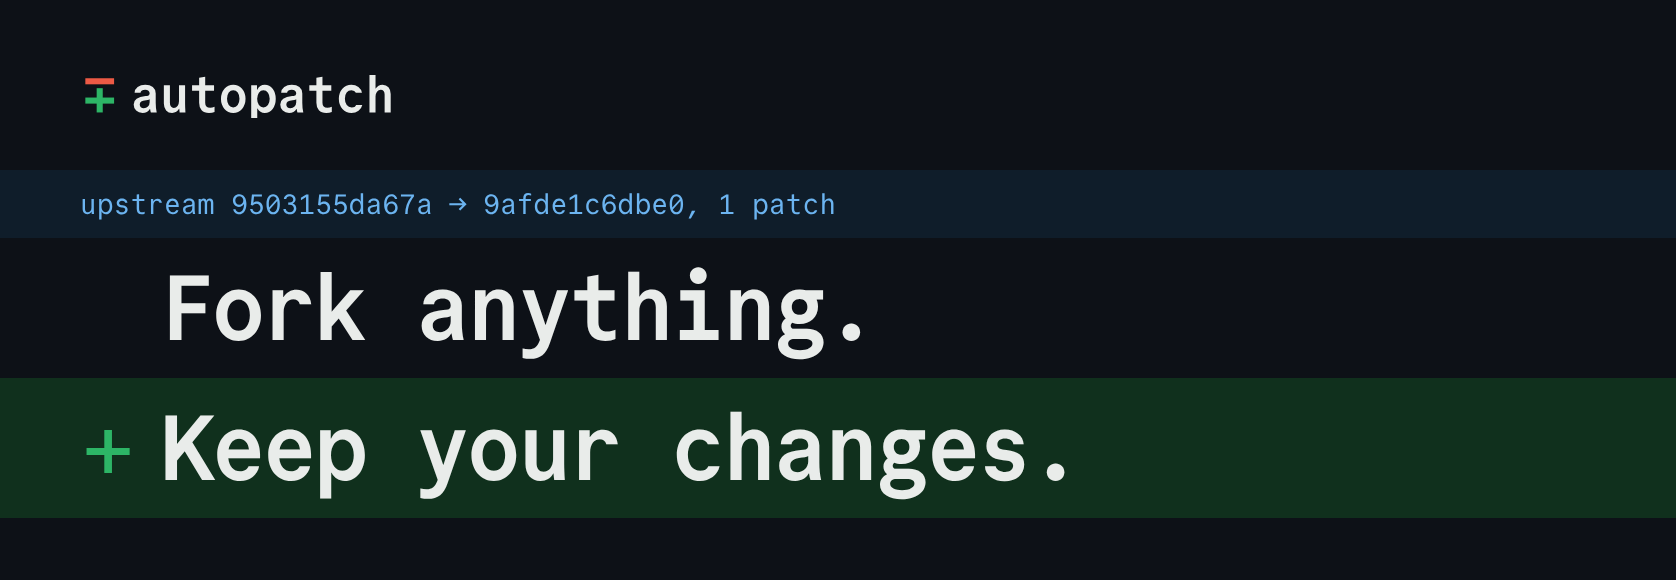
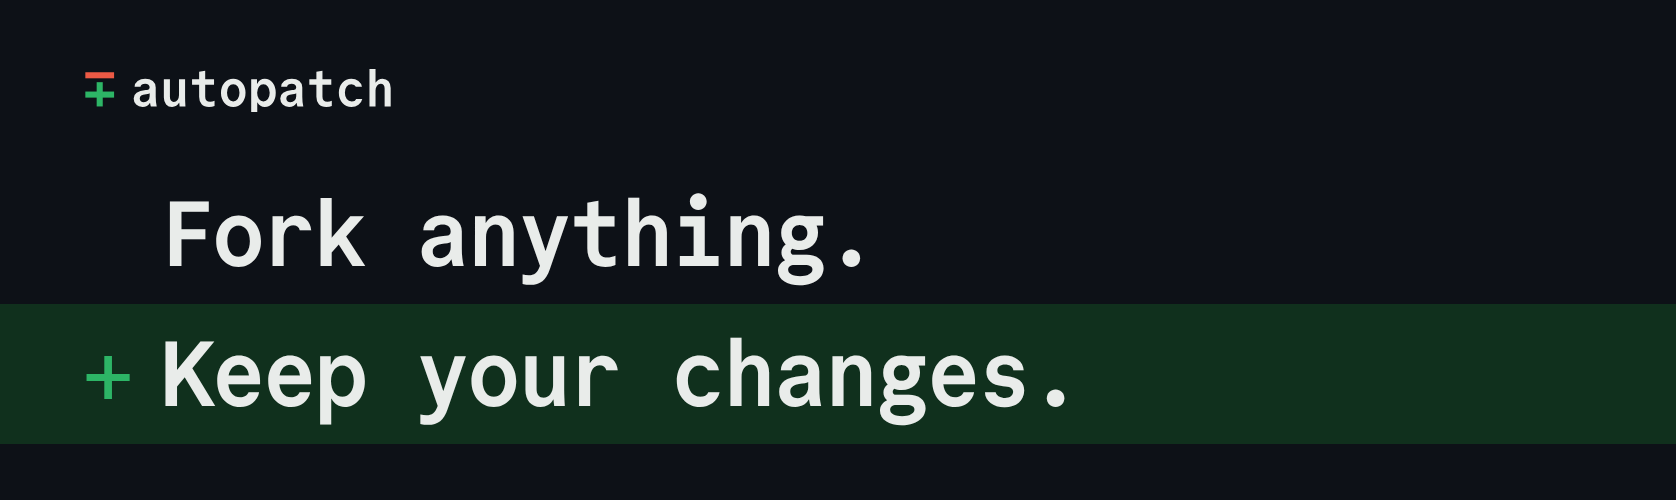
Site: finished-product pass: fork in one command, patches as folders, made for agents, your schedule, no hero band; OG and README headers to match

Changed region(s): [[0.0, 0.33, 1.0, 0.9], [0.031, 0.12, 0.2482, 0.24]]

diff --git a/brand/readme/header.css b/brand/readme/header.css
@@ -1,12 +1,11 @@
 @font-face { font-family: "Commit Mono"; src: url("../fonts/commit-mono-400.woff2") format("woff2"); font-weight: 400; }
 @font-face { font-family: "Commit Mono"; src: url("../fonts/commit-mono-700.woff2") format("woff2"); font-weight: 700; }
-:root { --bg: #ffffff; --ink: #101312; --sign-del: #d7402c; --sign-add: #1c9a50; --add-bg: #e1f5e7; --hunk: #1d64a8; --hunk-bg: #e5f0fa; }
-.dark { --bg: #0d1117; --ink: #e9ecea; --sign-add: #2db566; --add-bg: #10301d; --hunk: #6cb4f0; --hunk-bg: #0f1d2a; }
+:root { --bg: #ffffff; --ink: #101312; --sign-del: #d7402c; --sign-add: #1c9a50; --add-bg: #e1f5e7; }
+.dark { --bg: #0d1117; --ink: #e9ecea; --sign-add: #2db566; --add-bg: #10301d; }
 html, body { margin: 0; }
 body { width: 100vw; height: 100vh; background: var(--bg); align-items: flex-start; color: var(--ink); font-family: "Commit Mono", monospace; font-variant-ligatures: none; overflow: hidden; display: flex; flex-direction: column; justify-content: center; }
 .wm { height: 28px; margin: 0 0 26px 40px; display: block; }
 .ln { align-self: stretch; display: grid; grid-template-columns: 26px 1fr; column-gap: 14px; padding: 0 40px; white-space: nowrap; }
-.hunk { background: var(--hunk-bg); color: var(--hunk); font-size: 14px; line-height: 34px; grid-template-columns: 1fr; }
 .big { font-size: 46px; font-weight: 700; letter-spacing: -0.045em; line-height: 70px; }
 .big::before { font-weight: 400; text-align: center; content: " "; }
 .add { background: var(--add-bg); } .add::before { content: "+"; color: var(--sign-add); }

diff --git a/brand/readme/header-dark.html b/brand/readme/header-dark.html
@@ -4,7 +4,6 @@
 <link rel="stylesheet" href="header.css">
 <body>
 <img class="wm" src="../logo/autopatch-dark.svg" alt="">
-<div class="ln hunk">upstream 9503155da67a → 9afde1c6dbe0, 1 patch</div>
 <div class="ln big">Fork anything.</div>
 <div class="ln big add">Keep your changes.</div>
 </body>

diff --git a/brand/readme/header-light.html b/brand/readme/header-light.html
@@ -4,7 +4,6 @@
 <link rel="stylesheet" href="header.css">
 <body>
 <img class="wm" src="../logo/autopatch.svg" alt="">
-<div class="ln hunk">upstream 9503155da67a → 9afde1c6dbe0, 1 patch</div>
 <div class="ln big">Fork anything.</div>
 <div class="ln big add">Keep your changes.</div>
 </body>

diff --git a/brand/copy/MESSAGING.md b/brand/copy/MESSAGING.md
@@ -1,103 +1,64 @@
 # autopatch messaging
 
-The source of truth for how we talk about autopatch. The site, README, OG image and launch post draw from here. Numbers come from `copy/facts.json` (run `node copy/facts.mjs`), never typed by hand. When this file and an asset disagree, fix it here first, then `rg` every asset for the old wording.
-
-Every claim below was checked against `~/Developer/autopatch` (`src/autopatch.ts`, `action.yml`, `action.sh`, `README.md`) on Oct 10 2026, and the patch model (plain-prose PATCH.md, `add <id> "text"`) on Oct 11. The README's first line and this hero's sub line say the same thing; keep them in step.
+The source of truth for how the site, OG image and launch post talk about autopatch. The README in `~/Developer/autopatch` is the source for what the tool does; when they disagree, the README wins and this file follows. Numbers come from `copy/facts.json` (`node copy/facts.mjs`), never typed by hand.
 
 ## The idea in one sentence
 
-autopatch keeps your changes on top of someone else's repo: every night your fork is rebuilt from upstream plus your patches, and when one stops applying, an agent re-implements it from the intent you wrote down.
+autopatch keeps your fork on top of upstream, and when upstream breaks one of your changes, an agent rebuilds it.
 
-Bassim's own words, for the README and the launch, verbatim: "i can fork and customize anything, the agents will autonomously track upstream and re-implement my changes."
+Bassim's own words, for the launch, verbatim: "i can fork and customize anything, the agents will autonomously track upstream and re-implement my changes."
 
 ## Hero
 
-- **Headline:** Fork anything. Keep your changes.
-- **Sub line:** A GitHub Action that updates your fork every night, and has an agent redo any change that stops applying. *(19 words)*
-- **Band above it:** your fork, every night *(no SHAs: plain words read as a product, not a log)*
-- **Command under it:** `npx github:AVGVSTVS96/autopatch init owner/repo`
+- **Headline:** Fork anything. / Keep your changes. (two diff rows, mono, no band above them)
+- **Sub line:** autopatch keeps your fork on top of upstream. When upstream breaks one of your changes, an agent rebuilds it.
+- **Command:** `npx github:AVGVSTVS96/autopatch fork owner/repo`
+- **Under it:** the real T3 Code heal as a product view: its PATCH.md beside the run (383 commits pulled in, window-title no longer applied, Claude Code rebuilt it, typecheck passed, signed commit, 1m 55s).
 
 ## Sections
 
-Oct 11 rework, from Bassim: "the copy's quite heavy... makes this look so complicated", "a little too techy feeling... like hacker feeling. i want it to feel more like a finished product", "show just how easy it is to set up autopatch and fork a repo", and explain the commands: "What is adding a patch exactly? ... When do you do that exactly? ... How do you create patches exactly? Like files?" The PATCH.md site's hand-written copy (`~/Developer/PATCH.md/apps/website/src/spec.mdx`) sets the tone: say what the thing is, plainly, then show it.
+Oct 12, Bassim: "the page still has that kind of bare-bones skeleton kind of feel... I wanted to feel more like a complete finished product", "like other projects you go there, you kind of get it and you're impressed", "agents are going to be using this. We're not expecting human beings to use the CLI", "the every night wording that you put in everywhere as if every repo has nightly releases", and on the timeline: "don't make it sound cringe".
 
-One headline, at most one short line, one visual each. No terminal logs, SHAs or YAML on the page; those live in the README and the linked run.
+One headline, one short line, one visual each.
 
-### 1. Set it up once
-
-Three steps: fork it; run `init` (adds the nightly workflow, `--verify` takes the test command); `claude setup-token` and save it as `CLAUDE_CODE_OAUTH_TOKEN`, push. "That's it."
-
-### 2. Change anything. Say why.
-
-**Line:** Edit the code however you like, by hand or with your agent. Then `add` turns it into a patch.
-
-**Visual:** the `add` command with its sentence, then what it writes: PATCH.md holding exactly that sentence, the folder, and the real `window-title.patch` diff from the T3 Code fork. Two asides: same id folds more in; words only makes an intent-only patch the agent builds on the next sync.
-
-### 3. Every night, it rebuilds your fork
-
-**Visual:** five diff rows in sans: upstream's newest green commit (context), your patches applied with git (+), any that no longer fit redone by an agent from their PATCH.md (+), any upstream now does itself dropped (-), your tests then a signed commit (context). Beside it, the real T3 Code run as a result card: 383 upstream commits behind, 1 patch redone by Claude Code, typecheck passed, signed and pushed, 1m 55s.
-
-**Under it:** No agent runs when every patch fits. If anything fails, nothing is pushed.
-
-### 4. Four commands
-
-`init`, `add`, `status`, `sync`, one plain line each. Note: run with `npx github:AVGVSTVS96/autopatch`; Claude Code by default, `agent` in config.json for Codex or any CLI agent.
-
-### 5. How it got here
-
-A dated timeline, in Bassim's order: pi-patcher (May 22, proof of concept), PATCH.md (Jun 27, the format), herdr (Jul 24, the first fork kept this way, also a proof of concept; {forks.2.upstreamCommitsAbsorbed} upstream commits), Claude Code plugins (Oct 4, "the one I rely on most"), Buzz (Oct 5), T3 Code (Oct 6, the first fork on autopatch), autopatch (Oct 10).
+1. **One command.** `fork` forks, clones and adds the workflow (and the secret, if `CLAUDE_CODE_OAUTH_TOKEN` is set). `init owner/repo` for a fork you already have.
+2. **A patch is a folder.** PATCH.md says what the change does, the diff sits beside it. Changed the code: write the PATCH.md, `save <id>`. Only an idea: push the PATCH.md and the next heal builds it.
+3. **Made for your agent.** `npx skills add AVGVSTVS96/autopatch`, then an example session: fork, edit, write PATCH.md, save, push.
+4. **On your schedule.** Update every 6 hours, git only. Heal daily, the agent. Follow a branch or `releases`. Both cron lines are yours to change.
+5. **Commands.** `fork`, `init`, `save`, `status`, `sync`, one line each, as in the README.
+6. **History.** The README's list, as is: pi-patcher (May, proof of concept), PATCH.md (June, the format), herdr (July, the first fork rebuilt from patches, proof of concept), forks of Claude Code's plugins, Buzz and T3 Code (October, in daily use), autopatch (October). Facts, no ranking of which fork he likes.
 
 ## Meta
 
 - **Title:** autopatch: fork anything, keep your changes
-- **Description:** A GitHub Action that updates your fork every night, and has an agent redo any change that stops applying.
+- **Description:** autopatch keeps your fork on top of upstream. When upstream breaks one of your changes, an agent rebuilds it.
 - **Site:** https://autopatchmd.vercel.app
-- **Repo description (GitHub):** Fork anything and keep your changes. An agent re-implements the ones that stop applying.
+- **Repo description (GitHub):** Fork anything and keep your changes. When upstream breaks one, an agent rebuilds it.
 
 ## OG image (1200×630)
 
-- **Big:** Fork anything. Keep your changes.
+- **Big:** Fork anything. / Keep your changes.
 - **Small:** autopatch · autopatchmd.vercel.app
-- **Alt text:** autopatch: fork anything, keep your changes. Patches replay on upstream every night, and an agent re-implements the ones that stop applying.
+- **Alt text:** autopatch: Fork anything. Keep your changes.
 
 Nothing else on it. Keep the bottom fifth clear for X's title bar.
 
-## What it is
-
-- A CLI and a GitHub Action, in one file of TypeScript ({tool.sourceLines} lines, {tool.runtimeDependencies} runtime dependencies, MIT).
-- Your patches as plain files in your fork: `.autopatch/<id>/PATCH.md` and `<id>.patch`, in order, listed in `.autopatch/config.json`.
-- Commands: `init`, `add`, `status`, `sync`.
-- Your fork's own `.github/` replaces upstream's on every rebuild, so upstream's workflows never run with your secrets.
-
 ## What it isn't
 
-- **Not a rebase bot.** It rebuilds your fork from upstream each time: upstream, then each patch in order. Patches stack, and a later one can touch the same files as an earlier one.
-- **Not hands-off forever.** If the agent can't make the change pass your verify command, nothing lands and the run fails, so you see it. Don't say "maintains itself", "zero maintenance" or "never breaks".
-- **Not a model call every night.** When every patch applies, there's no agent at all. A sync that failed isn't retried on the same upstream commit with the same patches, so a stuck heal can't burn your quota.
-- **Not a skill, a plugin or a mod.** It's a tool that runs in your fork's CI.
+- **Not nightly.** It runs on two schedules the user picks (defaults: update every 6 hours, heal daily) and can follow releases. Never say "every night".
+- **Not a rebase bot.** It rebuilds the fork from upstream plus the patches each time.
+- **Not hands-off forever.** If the agent can't make the change pass `verify`, nothing lands and the run fails. Don't say "maintains itself", "zero maintenance" or "never breaks".
+- **Not a model call on every run.** Updates are git only; the agent runs only to heal.
 
 ## Voice
 
-Plain words, like the README. Short sentences, real numbers, what works and what doesn't.
+Plain words, like the README. Short sentences, real numbers.
 
-**Do**
-- Use the real names: `PATCH.md`, `.autopatch/`, `verify`, `autopatch sync`, upstream, fork, patch, heal.
-- Say what happened: "git applied 3 of 4, the agent rewrote 1, verify passed."
+- Use the real names: `PATCH.md`, `.autopatch/`, `verify`, `fork`, `save`, upstream, patch, heal.
 - Lowercase in the launch post and anywhere Bassim speaks. Sentence case on the site.
-
-**Don't**
 - No: self-maintaining, autonomous fork, zero maintenance, forever, AI-powered, magic, seamless, effortless, supercharge, unlock.
-- Don't call patches "mods". Don't call autopatch a skill.
-- No em dashes. Reword the sentence.
-- No setup-and-punchline lines on the site. The launch post can have one hook; the page can't.
-
-| Don't | Do |
-|---|---|
-| Your fork maintains itself. | Your patches replay on upstream every night. |
-| AI-powered conflict resolution. | When a patch stops applying, an agent rewrites it from its intent. |
-| Never rebase again. | Git applies what it can. The agent handles the rest, and your tests check it. |
-| Fork anything, forever. | Fork anything. Keep your changes. |
+- No em dashes. No setup-and-punchline lines on the site.
 
 ## Name
 
-autopatch, one word, always lowercase, even at the start of a sentence. Never "AutoPatch", "Autopatch" or "auto-patch" (Bassim says "auto patch" out loud; it's still one word written). PATCH.md keeps its casing: it's a file name.
+autopatch, one word, always lowercase, even at the start of a sentence. PATCH.md keeps its casing: it's a file name.

diff --git a/brand/BRAND.md b/brand/BRAND.md
@@ -1,6 +1,6 @@
 # autopatch · brand
 
-**The idea in a sentence:** the page is a diff. autopatch's whole job is to keep one `+` alive on top of someone else's code, so the brand is built from the unified diff itself: the `@@` hunk band, the red `-` row, the green `+` row, set big.
+**The idea in a sentence:** the page is a diff. autopatch's whole job is to keep one `+` alive on top of someone else's code, so the brand is built from the unified diff itself: the red `-` row and the green `+` row, set big.
 
 ## Why this direction (picked without a round, for a same-day ship)
 
@@ -10,7 +10,7 @@ Three directions were drawn (`logo/explore-*.svg`):
 - **B, the minus-plus sign (picked):** `∓`, a red minus over a green plus. It's the order a diff reads in (old line out, new line in), it's one glyph tall like a letter, and it holds up at 16px as two bars and a cross. It's also exactly what a heal is: a stale line replaced.
 - **C, the stack:** patches as bars on an upstream baseline. True to the quilt model, but reads as a generic "layers" icon.
 
-The page system follows from B. Big type sits in real diff rows, so the hero is literally a two-line hunk: a context line (`Fork anything.`) and an added line (`Keep your changes.`) under a hunk band carrying the real first line of a real sync. Nothing on the page is a picture of a diff when it could be a diff.
+The page system follows from B. Big type sits in real diff rows, so the hero is literally a two-line hunk: a context line (`Fork anything.`) and an added line (`Keep your changes.`). Nothing on the page is a picture of a diff when it could be a diff.
 
 Distinct from hex (poppy blocks, hard shadows) and commonplace (paper, one red pen): autopatch is white or near-black like a diff viewer, three colors that each mean what they mean in `git diff`, and a heavy mono display face.
 
@@ -42,21 +42,23 @@ Distinct from hex (poppy blocks, hard shadows) and commonplace (paper, one red p
 | `--del-sign` | `#D7402C` | `#EC5A45` | `-`, the mark's minus |
 | `--del` | `#C13A28` | `#F2735F` | red text |
 | `--del-bg` | `#FDE8E4` | `#221110` | removed rows |
-| `--hunk` | `#1D64A8` | `#6CB4F0` | `@@` bands, SHAs, footnote marks |
-| `--hunk-bg` | `#E5F0FA` | `#0F1D2A` | hunk band |
+| `--hunk` | `#1D64A8` | `#6CB4F0` | the agent: heal marks and icons |
+| `--hunk-bg` | `#E5F0FA` | `#0F1D2A` | behind the agent's icons |
+| `--panel` | `#FFFFFF` | `#121514` | cards |
 
-Rule: **green means it's yours and it's alive; red means upstream made it stale or it was dropped; blue means where.** Never decoration. In dark, the removed row is darker than the added row on purpose: same-lightness red and green bands side by side fight.
+Rule: **green means it's yours and it's alive; red means upstream made it stale or it was dropped; blue means the agent.** Never decoration. In dark, the removed row is darker than the added row on purpose: same-lightness red and green bands side by side fight.
 
 ### Grid
 
-8px base, page max 74rem, gutters `clamp(1rem, 4vw, 3rem)`. Hero diff rows bleed to the gutter edge. Sections are split by hairlines, never by background color. Square corners, no shadows. 1px `--ink` border only on the primary thing in view (the folder, the verify bar, the command).
+8px base, page max 74rem, gutters `clamp(1rem, 4vw, 3rem)`. Hero diff rows bleed to the gutter edge. Sections are split by hairlines, never by background color. Square corners, no shadows. 1px `--ink` border only on the primary thing in view (the hero command, the top rule of a list).
 
 ### Motifs
 
 1. **The diff row.** `-`/`+`/context in a 2-char gutter, tinted row, mono. Used at display size in the hero and OG, at 13px in panels.
-2. **The hunk band.** Blue band with a real CLI line in it (`upstream 9503155da67a → 62da1cd48bb4, 1 patch`), the brand's eyebrow.
-3. **The real run.** Exact CLI output in its own shape, 12-character SHAs.
-4. **The stack and the commit line.** Upstream commits as dots on a line, the one your fork builds on filled green.
+2. **The real run.** A real heal as a product UI: what happened, one line per step, with the agent's own words quoted. No SHAs on the page.
+3. **Cards.** Code, files and runs sit on `--panel` (white in light, a step above the field in dark) with a hairline border, so the page reads finished, not wireframe.
+
+The blue hunk band over the hero was retired on Oct 12: three stacked bands (blue, field, green) read as stripes, and its SHAs read as a log. The hero is the two rows alone, in the site, the OG image and the README header.
 
 ### Motion
 
